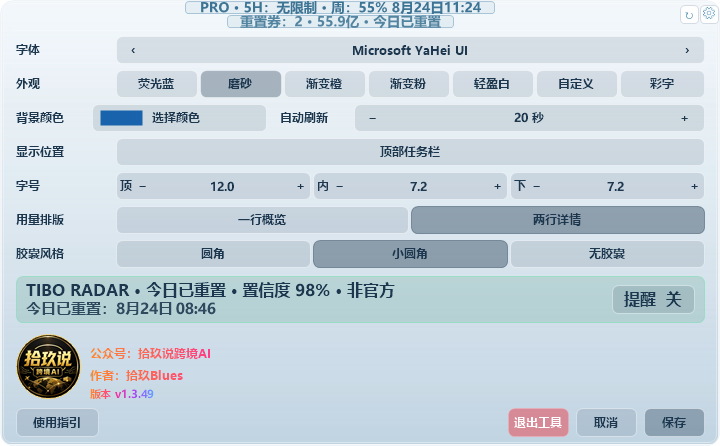
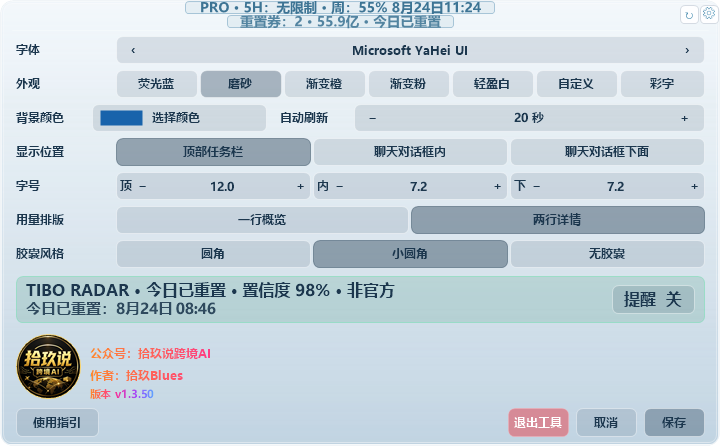
Release v1.3.50 select display position directly

diff --git a/Program.cs b/Program.cs
@@ -1508,10 +1508,18 @@ namespace CodexUsageOverlay
                         refreshStepperWidth, refreshBox.Height), center);
 
                 DrawInlineLabel(graphics, "显示位置", InlineRowBounds(3), labelFont, textBrush, left);
-                Rectangle displayPosition = DisplayPositionBounds;
-                DrawInlineBox(graphics, displayPosition, boxColor, borderColor);
-                graphics.DrawString(OverlayDisplayPositions.Label(visualSettings.DisplayPosition),
-                    valueFont, textBrush, displayPosition, center);
+                string[] positionLabels = new[] { "顶部任务栏", "聊天对话框内", "聊天对话框下面" };
+                for (int index = 0; index < positionLabels.Length; index++)
+                {
+                    Rectangle positionChoice = DisplayPositionChoiceBounds(index);
+                    bool selected = OverlayDisplayPositions.Index(
+                        visualSettings.DisplayPosition) == index;
+                    DrawInlineBox(graphics, positionChoice,
+                        selected ? Color.FromArgb(105, textColor.R, textColor.G, textColor.B) : boxColor,
+                        selected ? Color.FromArgb(215, textColor.R, textColor.G, textColor.B) : borderColor);
+                    graphics.DrawString(positionLabels[index], valueFont, textBrush,
+                        positionChoice, center);
+                }
 
                 DrawInlineLabel(graphics, "字号", InlineRowBounds(4), labelFont, textBrush, left);
                 string[] fontSizeLabels = new[] { "顶", "内", "下" };
@@ -1742,7 +1750,10 @@ namespace CodexUsageOverlay
         }
         private Rectangle RefreshMinusBounds { get { Rectangle box = RefreshValueBounds; return new Rectangle(box.Left, box.Top, RefreshStepperWidth, box.Height); } }
         private Rectangle RefreshPlusBounds { get { Rectangle box = RefreshValueBounds; return new Rectangle(box.Right - RefreshStepperWidth, box.Top, RefreshStepperWidth, box.Height); } }
-        private Rectangle DisplayPositionBounds { get { return InlineValueBounds(3); } }
+        private Rectangle DisplayPositionChoiceBounds(int index)
+        {
+            return InlineChoiceBounds(3, index, 3);
+        }
         private Rectangle FontSizeBounds { get { return InlineValueBounds(4); } }
         private Rectangle ComposerInsideLayoutChoiceBounds(int index)
         {
@@ -2855,7 +2866,7 @@ namespace CodexUsageOverlay
             else if (RefreshMinusBounds.Contains(logicalLocation)) ChangeRefreshSeconds(-5);
             else if (RefreshPlusBounds.Contains(logicalLocation)) ChangeRefreshSeconds(5);
             else if (HandleFontSizeClick(logicalLocation)) return;
-            else if (DisplayPositionBounds.Contains(logicalLocation)) ToggleDisplayPosition();
+            else if (TrySelectDisplayPosition(logicalLocation)) return;
             else if (TrySelectComposerInsideLayout(logicalLocation)) return;
             else if (TrySelectBottomCapsuleStyle(logicalLocation)) return;
             else if (GuideBounds.Contains(logicalLocation)) ShowUsageGuide();
@@ -2986,11 +2997,17 @@ namespace CodexUsageOverlay
             RefreshInlinePanel();
         }
 
-        private void ToggleDisplayPosition()
+        private bool TrySelectDisplayPosition(Point logicalLocation)
         {
-            int nextIndex = (OverlayDisplayPositions.Index(draftSettings.DisplayPosition) + 1) % 3;
-            draftSettings.DisplayPosition = OverlayDisplayPositions.FromIndex(nextIndex);
-            RefreshInlinePanel();
+            for (int index = 0; index < 3; index++)
+            {
+                if (!DisplayPositionChoiceBounds(index).Contains(logicalLocation))
+                    continue;
+                draftSettings.DisplayPosition = OverlayDisplayPositions.FromIndex(index);
+                RefreshInlinePanel();
+                return true;
+            }
+            return false;
         }
 
         private bool TrySelectBottomCapsuleStyle(Point logicalLocation)

diff --git a/OverlaySettings.cs b/OverlaySettings.cs
@@ -405,7 +405,7 @@ namespace CodexUsageOverlay
         private readonly ComboBox themeCombo;
         private readonly NumericUpDown refreshSeconds;
         private readonly CheckBox resetNotifications;
-        private readonly ComboBox displayPositionCombo;
+        private readonly RadioButton[] displayPositionButtons;
         private readonly NumericUpDown titleBarFontSize;
         private readonly NumericUpDown composerInsideFontSize;
         private readonly NumericUpDown composerBelowFontSize;
@@ -497,11 +497,11 @@ namespace CodexUsageOverlay
             resetNotifications.Text = "检测到新公告时显示 Windows 通知";
             resetNotifications.Checked = current.ResetNotificationsEnabled;
 
-            displayPositionCombo = new ComboBox();
-            displayPositionCombo.Dock = DockStyle.Fill;
-            displayPositionCombo.DropDownStyle = ComboBoxStyle.DropDownList;
-            displayPositionCombo.Items.AddRange(new object[] { "顶部任务栏", "聊天对话框内", "聊天对话框下面" });
-            displayPositionCombo.SelectedIndex = OverlayDisplayPositions.Index(current.DisplayPosition);
+            RadioButton[] positionButtons;
+            TableLayoutPanel displayPositionChoices = CreateChoiceButtons(
+                new[] { "顶部任务栏", "聊天对话框内", "聊天对话框下面" },
+                OverlayDisplayPositions.Index(current.DisplayPosition), out positionButtons);
+            displayPositionButtons = positionButtons;
 
             titleBarFontSize = CreateFontSizeSelector(
                 OverlayDisplayPosition.TitleBar, current.TitleBarFontSize);
@@ -533,7 +533,7 @@ namespace CodexUsageOverlay
             layout.Controls.Add(CreateLabel("重置雷达提醒"), 0, 4);
             layout.Controls.Add(resetNotifications, 1, 4);
             layout.Controls.Add(CreateLabel("显示位置"), 0, 5);
-            layout.Controls.Add(displayPositionCombo, 1, 5);
+            layout.Controls.Add(displayPositionChoices, 1, 5);
             layout.Controls.Add(CreateLabel("顶部字号"), 0, 6);
             layout.Controls.Add(titleBarFontSize, 1, 6);
             layout.Controls.Add(CreateLabel("对话框内字号"), 0, 7);
@@ -698,7 +698,7 @@ namespace CodexUsageOverlay
             SelectedSettings.RefreshSeconds = Decimal.ToInt32(refreshSeconds.Value);
             SelectedSettings.ResetNotificationsEnabled = resetNotifications.Checked;
             SelectedSettings.DisplayPosition = OverlayDisplayPositions.FromIndex(
-                displayPositionCombo.SelectedIndex);
+                SelectedChoiceIndex(displayPositionButtons));
             SelectedSettings.TitleBarFontSize = OverlayFontSizes.ClampForPosition(
                 OverlayDisplayPosition.TitleBar, (float)titleBarFontSize.Value,
                 OverlayFontSizes.DefaultTitleBar);

diff --git a/CodexAppServerClient.cs b/CodexAppServerClient.cs
@@ -121,7 +121,7 @@ namespace CodexUsageOverlay
             Dictionary<string, object> clientInfo = new Dictionary<string, object>();
             clientInfo["name"] = "codex_usage_overlay";
             clientInfo["title"] = "Codex Usage Overlay";
-            clientInfo["version"] = "1.3.49";
+            clientInfo["version"] = "1.3.50";
             Dictionary<string, object> initializeParams = new Dictionary<string, object>();
             initializeParams["clientInfo"] = clientInfo;
             initializeParams["capabilities"] = ObjectOf("experimentalApi", true);

diff --git a/ResetRadarService.cs b/ResetRadarService.cs
@@ -374,7 +374,7 @@ namespace CodexUsageOverlay
             HttpWebRequest request = (HttpWebRequest)WebRequest.Create(FeedUrl);
             request.Method = "GET";
             request.Accept = "application/json";
-            request.UserAgent = "CodexUsageOverlay/1.3.49";
+            request.UserAgent = "CodexUsageOverlay/1.3.50";
             request.Timeout = 15000;
             request.ReadWriteTimeout = 15000;
             request.AllowAutoRedirect = false;

diff --git a/AssemblyInfo.cs b/AssemblyInfo.cs
@@ -3,6 +3,6 @@ using System.Reflection;
 [assembly: AssemblyTitle("Codex Usage Overlay")]
 [assembly: AssemblyProduct("Codex Usage Overlay")]
 [assembly: AssemblyCompany("Codex Usage Overlay")]
-[assembly: AssemblyVersion("1.3.49.0")]
-[assembly: AssemblyFileVersion("1.3.49.0")]
-[assembly: AssemblyInformationalVersion("1.3.49")]
+[assembly: AssemblyVersion("1.3.50.0")]
+[assembly: AssemblyFileVersion("1.3.50.0")]
+[assembly: AssemblyInformationalVersion("1.3.50")]

diff --git a/GitHubReleaseUpdateService.cs b/GitHubReleaseUpdateService.cs
@@ -23,7 +23,7 @@ namespace CodexUsageOverlay
 
     internal sealed class GitHubReleaseUpdateService : IDisposable
     {
-        public const string CurrentVersion = "1.3.49";
+        public const string CurrentVersion = "1.3.50";
         public const string LatestReleaseUrl =
             "https://github.com/ivan51769/CodexUsageOverlay/releases/latest";
 

diff --git a/CHANGELOG.md b/CHANGELOG.md
@@ -1,5 +1,10 @@
 # 更新记录
 
+## v1.3.50
+
+- “显示位置”改为直接选择的三个并列按钮：顶部任务栏、聊天对话框内、聊天对话框下面；当前项高亮，不再点击整行循环切换。
+- 悬浮设置页与普通设置窗口保持一致的直接选择体验。
+
 ## v1.3.49
 
 - 修复“无胶囊”模式在浅色标题栏上的低对比文字：用量、重置信号和彩字主题均改用适合浅色背景的深色主题墨色，不再发白发虚。
